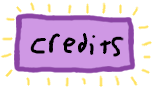
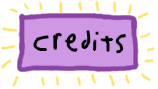
cleanup

diff --git a/src/lib/sounds.ts b/src/lib/sounds.ts
@@ -1,28 +1,25 @@
+import { loadBlobs } from './blobs';
 import { htmlTemplate, randomInt } from './utils';
 
-const audioCache = new Map<number, HTMLAudioElement>();
+const audioCache: HTMLAudioElement[] = [];
 
 export const setupSmooches = async () => {
 	const button = document.getElementById('cibo-audio-button');
 
-	const promises: Promise<Response>[] = [];
+	const urls: string[] = [];
 	for (let i = 1; i <= 7; i++) {
-		promises.push(fetch(`/sounds/smooch${i}.mp3`));
+		urls.push(`/sounds/smooch${i}.mp3`);
 	}
 
-	const smooches = await Promise.allSettled(promises);
-	for (const [i, response] of smooches.entries()) {
-		if (response.status === 'fulfilled') {
-			const blob = await response.value.blob();
-			const audio = new Audio(URL.createObjectURL(blob));
-
-			audioCache.set(i, audio);
-		}
+	const blobs = await loadBlobs(urls);
+	for (const blob of blobs) {
+		const audio = new Audio(blob);
+		audioCache.push(audio);
 	}
 
 	button?.addEventListener('click', () => {
-		const num = randomInt(1, audioCache.size);
-		const audio = audioCache.get(num);
+		const num = randomInt(1, audioCache.length - 1);
+		const audio = audioCache.at(num);
 
 		const clone = audio?.cloneNode() as HTMLAudioElement | undefined;
 		clone?.play();

diff --git a/src/lib/buttons.ts b/src/lib/buttons.ts
@@ -1,32 +1,33 @@
-export function setupButtonImage(
-	id: string,
-	images: {
-		static: string;
-		dynamic: string[];
-	}
-) {
-	let imageIndex = 0;
-	let interval = 0;
+import { loadBlobs } from './blobs';
 
+export async function setupButtonImage(id: string, prefix: string) {
 	const element = document.getElementById(id) as HTMLImageElement | null;
 	if (!element) return;
 
+	let imageIndex = 1;
+	let interval = 0;
+	const blobs = await loadBlobs([
+		`/ui/${prefix}_button1.png`,
+		`/ui/${prefix}_button2.png`,
+		`/ui/${prefix}_button3.png`
+	]);
+
 	element.onmouseover = () => {
-		element.src = images.dynamic[imageIndex];
+		element.src = blobs[imageIndex];
 
 		interval = window.setInterval(() => {
-			element.src = images.dynamic[imageIndex];
-
-			if (imageIndex < images.dynamic.length - 1) {
+			if (imageIndex < blobs.length - 1) {
 				imageIndex += 1;
 			} else {
-				imageIndex = 0;
+				imageIndex = 1;
 			}
+
+			element.src = blobs[imageIndex];
 		}, 500);
 	};
 
 	element.onmouseout = () => {
-		element.src = images.static;
+		element.src = blobs[0];
 		window.clearInterval(interval);
 	};
 }

diff --git a/src/main.ts b/src/main.ts
@@ -2,17 +2,11 @@ import { setupButtonImage } from './lib/buttons';
 import { setupSmooches } from './lib/sounds';
 
 async function main() {
-	await setupSmooches();
-
-	setupButtonImage('credits-anchor', {
-		static: '/ui/credits_button.png',
-		dynamic: ['/ui/credits_button1.png', '/ui/credits_button2.png']
-	});
-
-	setupButtonImage('home-anchor', {
-		static: '/ui/home_button.png',
-		dynamic: ['/ui/home_button1.png', '/ui/home_button2.png']
-	});
+	await Promise.all([
+		setupSmooches(),
+		setupButtonImage('credits-anchor', 'credits'),
+		setupButtonImage('home-anchor', 'home')
+	]);
 }
 
 void main();

diff --git a/src/credits.html b/src/credits.html
@@ -64,6 +64,10 @@
 						<li>Kairo</li>
 						<li>Killbasa</li>
 						<li>CommandThrow</li>
+						<li>Mohamad</li>
+						<li>ForRealJoker</li>
+						<li>Gadzooki</li>
+						<li>Razan</li>
 					</ul>
 				</div>
 			</div>
@@ -78,7 +82,7 @@
 		</div>
 		<div style="margin-top: 100px">
 			<a href="/">
-				<img src="/ui/home_button.png" id="home-anchor" />
+				<img src="/ui/home_button1.png" id="home-anchor" />
 			</a>
 		</div>
 		<div style="margin-top: 50px; display: flex; flex-direction: column; align-items: center">

diff --git a/src/lib/messages.ts b/src/lib/messages.ts
@@ -4,7 +4,7 @@ export function setupMessages() {
 	const messageString = messages.data.map((entry) => {
 		return `
 		<li style="display: flex; flex-direction: column; align-items: center; margin-top: 20px;">
-			<img width="300px" src="${entry.path}" alt="a cibo" loading="lazy" />
+			<img loading="lazy" width="300px" src="${entry.path}" alt="a cibo"/>
 			<h2 style="margin-top: 0;">${entry.author}</h2>
 		</li>
 		  `;

diff --git a/src/lib/blobs.ts b/src/lib/blobs.ts
@@ -1,0 +1,13 @@
+export async function loadBlobs(urls: string[]) {
+	const blobs: string[] = [];
+	const images = await Promise.allSettled(urls.map((url) => fetch(url)));
+
+	for (const response of images) {
+		if (response.status === 'fulfilled') {
+			const blob = await response.value.blob();
+			blobs.push(URL.createObjectURL(blob));
+		}
+	}
+
+	return blobs;
+}

diff --git a/src/index.html b/src/index.html
@@ -70,7 +70,7 @@
 		</div>
 		<div style="margin-top: 100px">
 			<a href="/credits">
-				<img src="/ui/credits_button.png" id="credits-anchor" />
+				<img src="/ui/credits_button1.png" id="credits-anchor" />
 			</a>
 		</div>
 		<div style="margin-top: 50px; display: flex; flex-direction: column; align-items: center">
